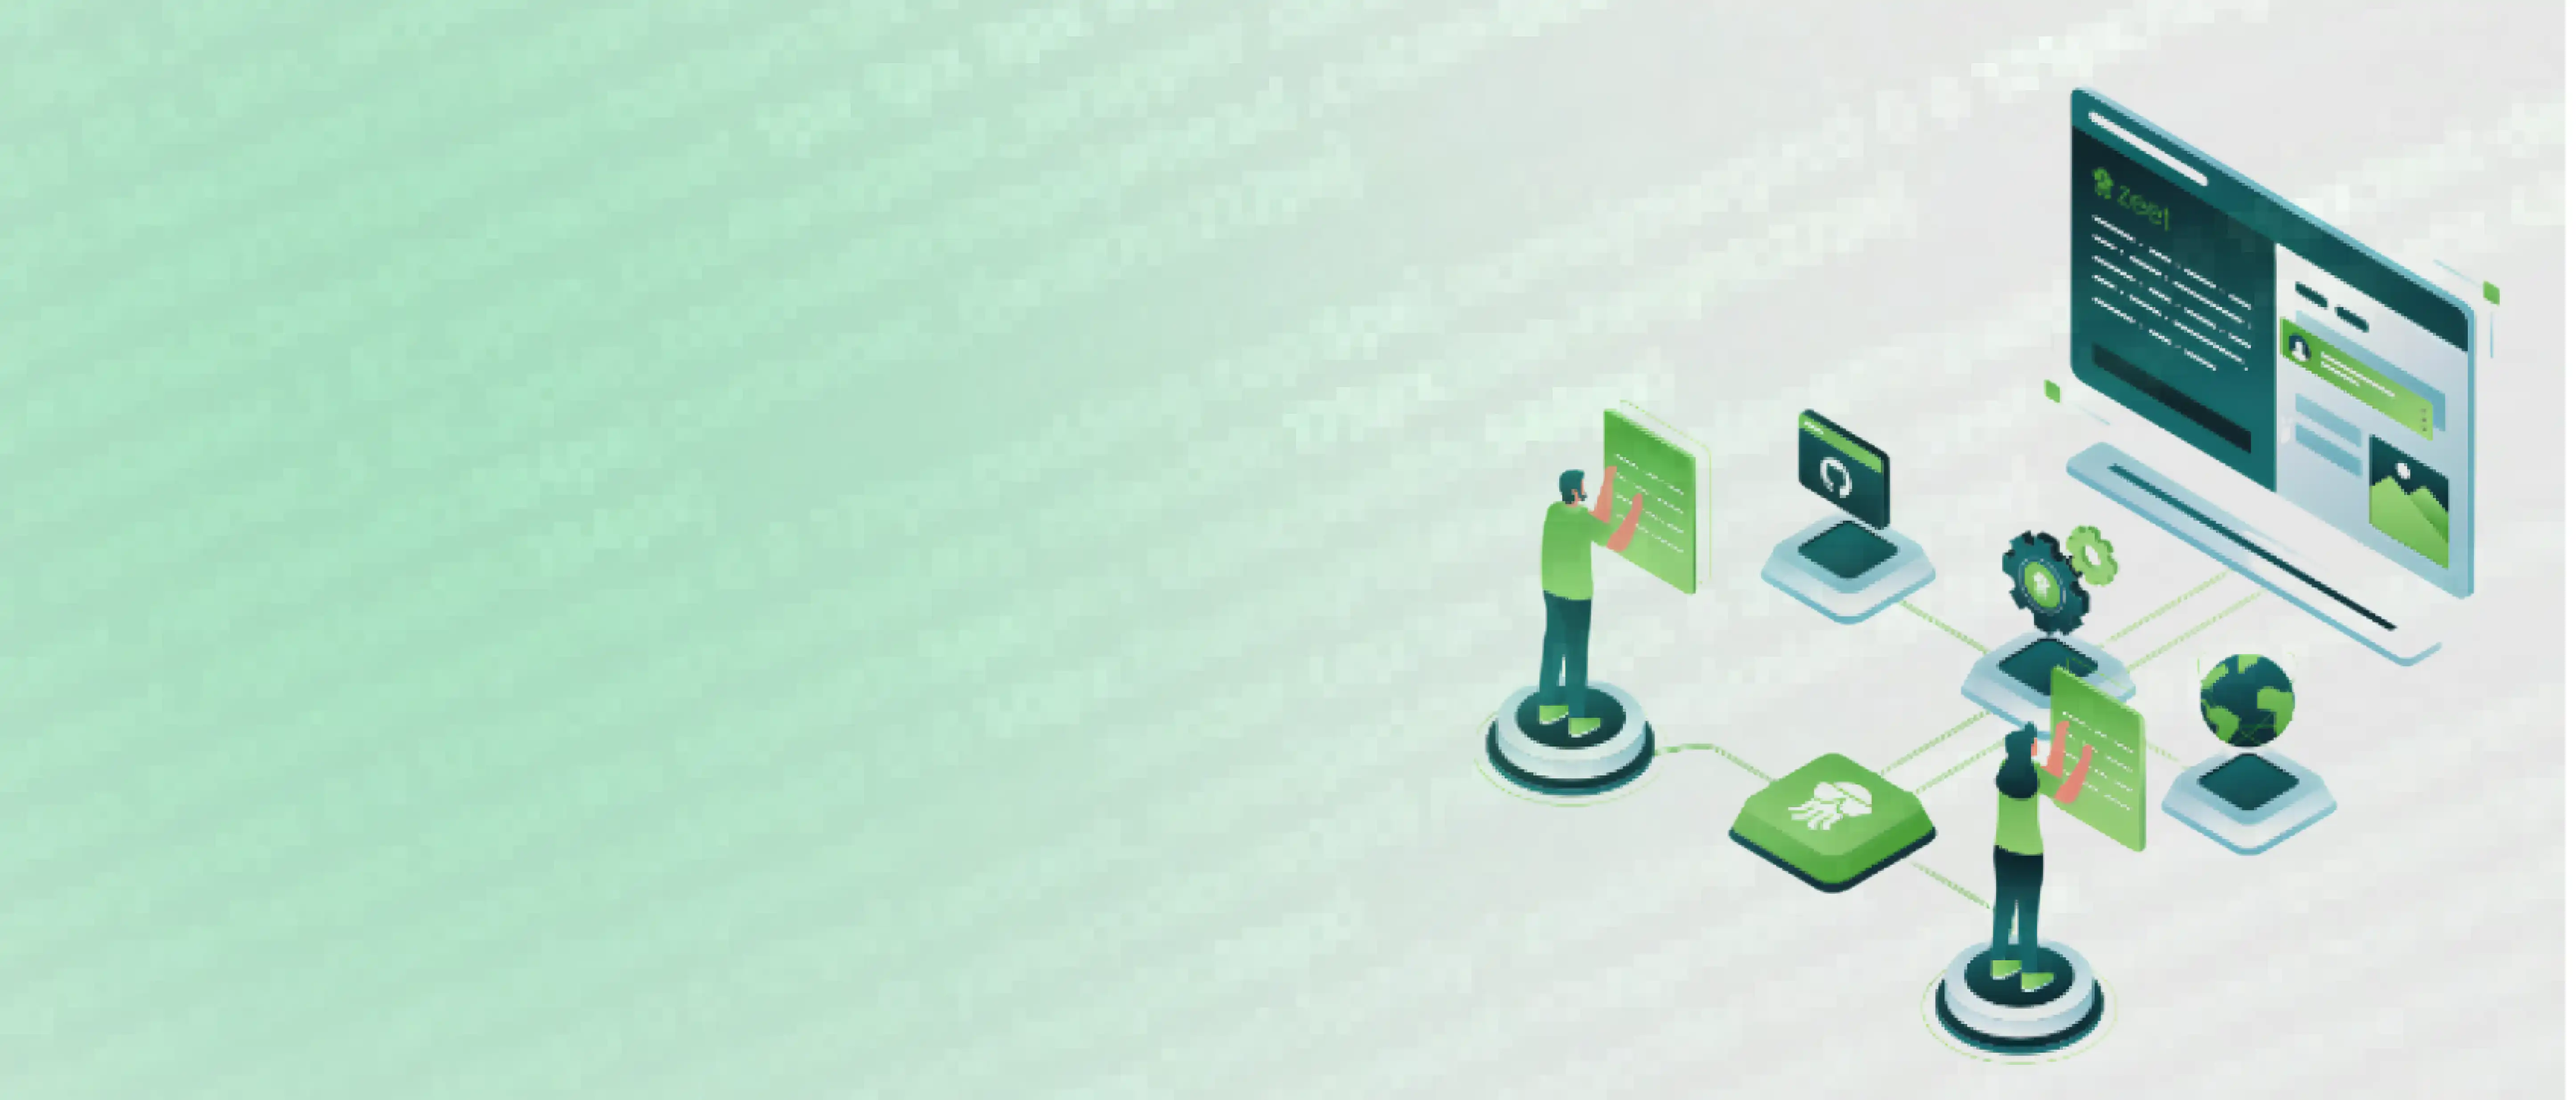
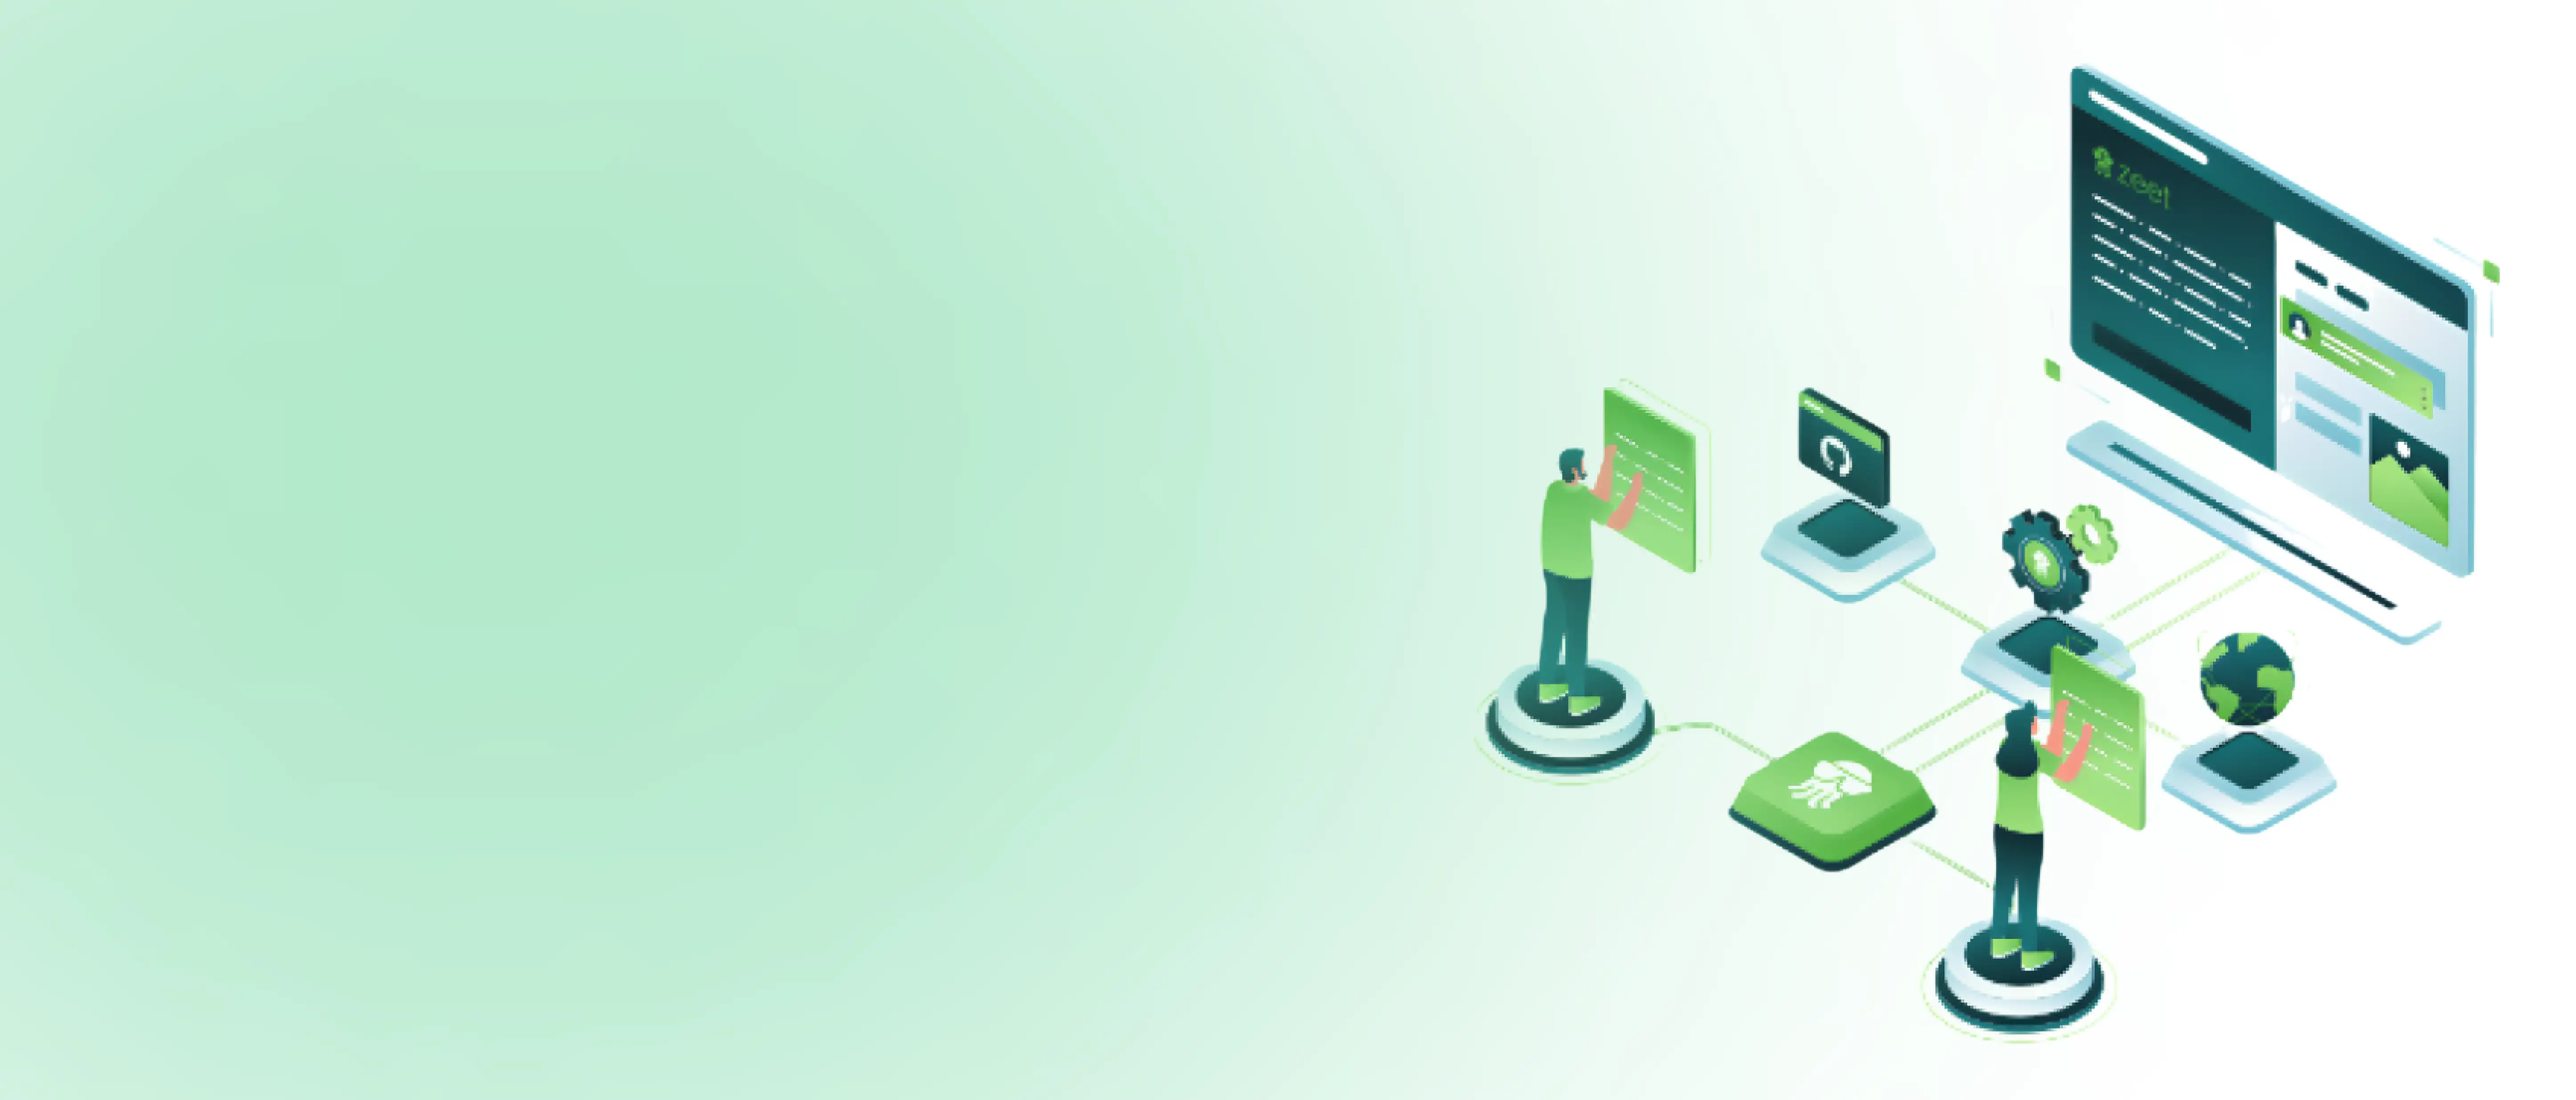
added the images

Changed region(s): [[0.5602, 0.0, 0.9959, 1.0]]

diff --git a/index.html b/index.html
@@ -53,7 +53,7 @@
           </div>
           </div>
             <div>
-              <img src="assests/Home- Banner Image 1.webp" alt="">
+              <img src="assests/Home- Banner Image.webp" alt="">
               <div class="content">
                 <p id="sub-title">Master Full Stack Development</p>
                   <p id="title">From Frontend to Backend, We've Got You Covered</p>
